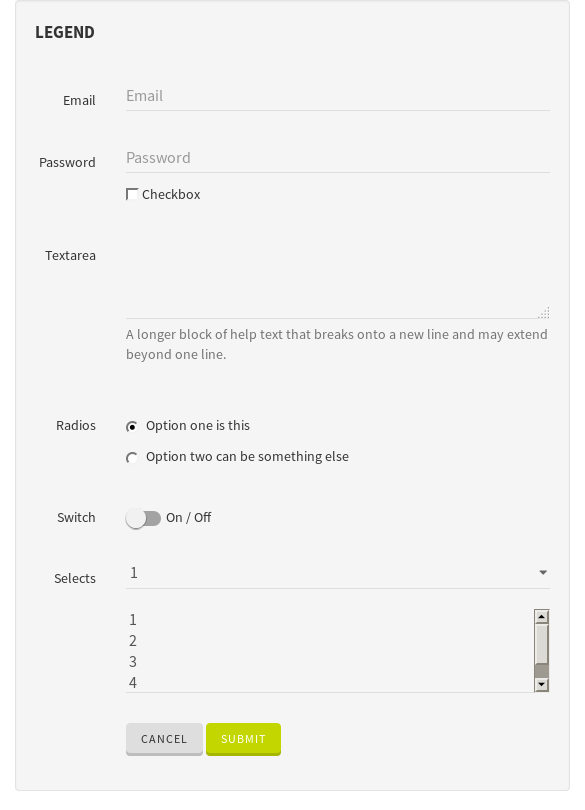
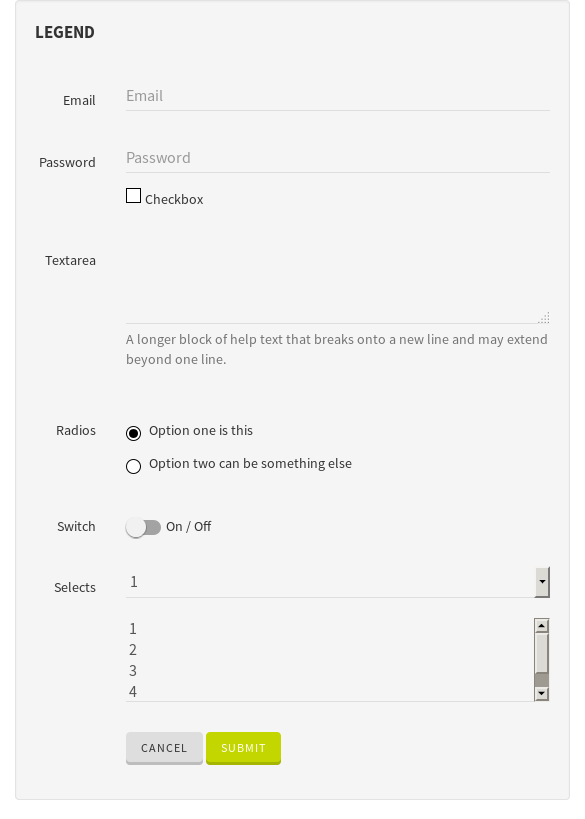
chore(Theme): use "options" instead of "query" and pass postcss-loader options in the loader definition (#150)
* chore(Theme): use "options" instead of "query" and pass postcss-loader options in the loader definition

* test(ci): update screenshots

diff --git a/packages/theme/webpack.config.js b/packages/theme/webpack.config.js
@@ -17,8 +17,8 @@ module.exports = () => {
 					options: {
 						limit: 50000,
 						mimetype: 'application/font-woff',
-						name: './fonts/[name].[ext]'
-					}
+						name: './fonts/[name].[ext]',
+					},
 				},
 				{
 					test: /bootstrap\.scss$/,
@@ -27,24 +27,33 @@ module.exports = () => {
 						loader: [
 							{
 								loader: 'css-loader',
-								query: {
+								options: {
 									importLoaders: 3,
 									minimize: true,
-									sourceMap: false
-								}
+									sourceMap: false,
+								},
 							},
 							{
-								loader: 'postcss-loader'
+								loader: 'postcss-loader',
+								options: {
+									plugins: () => [
+										autoprefixer({
+											browsers: ['last 2 versions'],
+											cascade: true,
+											remove: true,
+										}),
+									],
+								},
 							},
 							{
 								loader: 'sass-loader',
-								query: {
-									sourceMap: true
-								}
+								options: {
+									sourceMap: true,
+								},
 							},
 						],
 					}),
-				}
+				},
 			],
 		},
 		devtool: 'source-map',
@@ -56,23 +65,16 @@ module.exports = () => {
 			new webpack.LoaderOptionsPlugin({
 				options: {
 					context: __dirname,
-					postcss: [
-						require('autoprefixer')({
-							browsers: ['last 2 versions'],
-							cascade: true,
-							remove: true
-						}),
-					]
-				}
+				},
 			}),
 			new ExtractTextPlugin({
 				filename: 'bootstrap.css',
-				allChunks: true
+				allChunks: true,
 			}),
 		],
 		devServer: {
-			contentBase: './example',
+			contentBase: ['./example', './'],
 		},
-	}
+	};
 };
 
